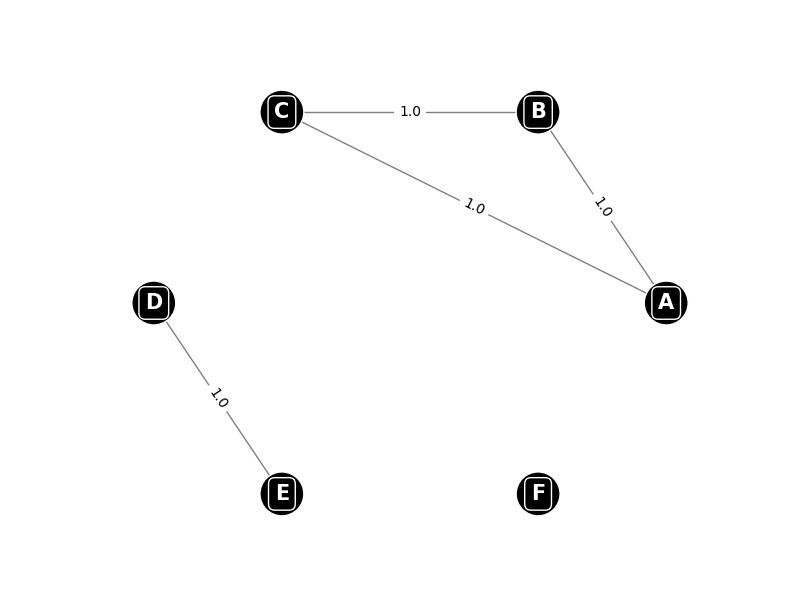
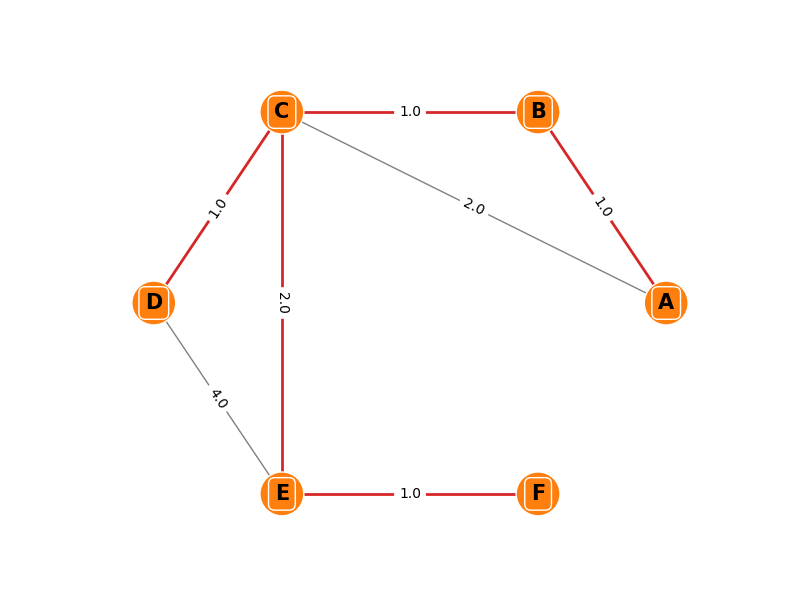
working hard on graphlib

diff --git a/graphlib/visualizer.py b/graphlib/visualizer.py
@@ -6,7 +6,7 @@ import multiprocessing
 from .color import Color
 
 
-def __visualize(graph):
+def __visualize(graph, path=None, edges=None):
     system = platform.system()
 
     # USING NETWORKX API
@@ -32,10 +32,40 @@ def __visualize(graph):
         Color.GRAY:  'black',
         Color.BLACK: 'white'
     }
-    edge_color = 'gray'
-
     node_colors = [color_map[graph.getCurrentStateOfColors()[node]] for node in node_list]
     font_colors = [b_f_color_map[graph.getCurrentStateOfColors()[node]] for node in node_list]
+
+    edge_colors = []
+    edges_to_highlight = set()
+    nodes_to_highlight = set()
+
+    if path:
+        for i in range(len(path) - 1):
+            u = path[i]
+            v = path[i + 1]
+            edges_to_highlight.add((u, v))
+            edges_to_highlight.add((v, u))
+        nodes_to_highlight.update(path)
+
+    if edges:
+        for edge in edges:
+            u, v = edge[0], edge[1]
+            edges_to_highlight.add((u, v))
+            edges_to_highlight.add((v, u))
+            nodes_to_highlight.add(u)
+            nodes_to_highlight.add(v)
+
+    if nodes_to_highlight:
+        for i, node in enumerate(node_list):
+            if node in nodes_to_highlight:
+                node_colors[i] = '#ff7f0e'  # Orange highlight
+                font_colors[i] = 'white'
+
+    for u, v in g.edges():
+        if (u, v) in edges_to_highlight or (v, u) in edges_to_highlight:
+            edge_colors.append('#d62728')  # Red highlight for edges
+        else:
+            edge_colors.append('gray')
 
     # DRAW USING __Matplotlib__
     pos = nx.circular_layout(g, scale=0.05)
@@ -49,11 +79,12 @@ def __visualize(graph):
         pos,
         with_labels = True,
         node_color  = node_colors,
-        edge_color  = edge_color,
+        edge_color  = edge_colors,
+        width       = [2.0 if c == '#d62728' else 1.0 for c in edge_colors],
         node_size   = 1000,
         font_size   = 10,
         font_weight = 'bold',
-        edgecolors = font_colors
+        edgecolors  = font_colors
     )
 
     edge_labels = nx.get_edge_attributes(g, 'weight')
@@ -78,6 +109,6 @@ def __visualize(graph):
         plt.tight_layout()
         plt.show()
 
-def visualizeState(graph):
-    process = multiprocessing.Process(target=__visualize, args=(graph,))
+def visualizeState(graph, path=None, edges=None):
+    process = multiprocessing.Process(target=__visualize, args=(graph, path, edges))
     process.start()

diff --git a/graphlib/graph.py b/graphlib/graph.py
@@ -5,6 +5,8 @@ from .visualizer import visualizeState
 
 
 # TODO [DIJKSTRA]: USE FIBONACCI HEAP INSTEAD OF MIN-HEAP
+# TODO [PRIM]    : TEST PRIM
+# TODO [KRUSKAL] : TEST KRUSKAL
 
 # NON-ORIENTED WEIGHTED GRAPH IMPLEMENTED BY MATRIX
 # To explain the value of the cell indexed by (node1, node2): (0, 0) --> NO CONNECTION, (1, x > 0) --> CONNECTION
@@ -227,5 +229,45 @@ class Graph:
             current = prev[current]
         return path if dist[destination] != float('inf') else None
 
-    def showVisualization(self):
-        visualizeState(self)
+    def prim(self, start_node=None):
+        """
+        Returns list of tuple (u, v, weight)
+        """
+        if not self.__nodes:
+            return []
+        
+        if start_node is None:
+            start_node = self.__nodes[0]
+        elif start_node not in self.__nodes:
+            raise ValueError("Start node not found in the graph")
+
+        visited     = set([start_node])
+        min_heap    = []
+        mst_edges   = []
+        start_index = self.__nodes.index(start_node)
+
+        for i, (connected, weight) in enumerate(self.__matrix[start_index]):
+            if connected:
+                heapq.heappush(min_heap, (weight, start_node, self.__nodes[i]))
+        
+        while min_heap and len(visited) < len(self.__nodes):
+            weight, u, v = heapq.heappop(min_heap)
+
+            if v in visited: continue
+
+            visited.add(v)
+            mst_edges.append((u, v, weight))
+
+            v_index = self.__nodes.index(v)        
+            for i, (connected, weight) in enumerate(self.__matrix[v_index]):
+                neighbor = self.__nodes[i]
+                if connected and neighbor not in visited:
+                    heapq.heappush(min_heap, (weight, v, neighbor))
+        
+        return mst_edges
+
+    def kruskal(self):
+        pass
+
+    def showVisualization(self, path=None, edges=None):
+        visualizeState(self, path, edges)

diff --git a/main.py b/main.py
@@ -1,8 +1,32 @@
+from graphlib.api import UndirectedGraph
 from tests.unit_test import run_dev_unit_test
 
+def run_user_test(g):
+    path = g.dijkstra("A", "F")
 
-def run_user_test():
-    pass
+    print(f"Shortest path from A to F: {path}")
+    g.show(path=path)
+
+def run_prim_test(g):
+    mst_edges = g.prim("A")
+
+    print(f"Archi del Minimum Spanning Tree (Prim): {mst_edges}")
+    g.show(edges=mst_edges)
 
 if __name__ == "__main__":
-    run_dev_unit_test()
+    # run_dev_unit_test()  # it generates output.png + all unit tests
+
+    g = UndirectedGraph()
+    for node in ['A', 'B', 'C', 'D', 'E', 'F']:
+        g.addNode(node)
+
+    g.addEdge("A", "B", 1.0)
+    g.addEdge("A", "C", 2.0)
+    g.addEdge("B", "C", 1.0)
+    g.addEdge("C", "D", 1.0)
+    g.addEdge("D", "E", 4.0)
+    g.addEdge("C", "E", 2.0)
+    g.addEdge("E", "F", 1.0)
+
+    # run_user_test(g)
+    run_prim_test(g)

diff --git a/graphlib/api.py b/graphlib/api.py
@@ -45,5 +45,11 @@ class UndirectedGraph:
     def dijkstra(self, start_node, end_node):
         return self.__graph.dijkstra(start_node, end_node)
 
-    def show(self):
-        self.__graph.showVisualization()
+    def prim(self, start_node):
+        return self.__graph.prim(start_node)
+    
+    def kruskal(self):
+        pass
+
+    def show(self, path=None, edges=None):
+        self.__graph.showVisualization(path, edges)
